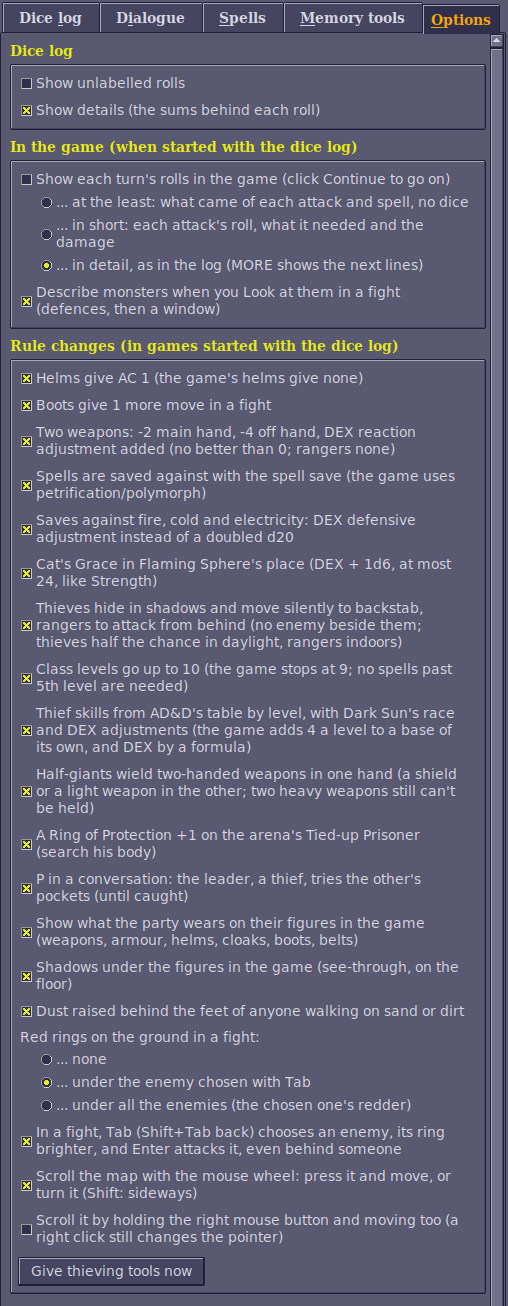
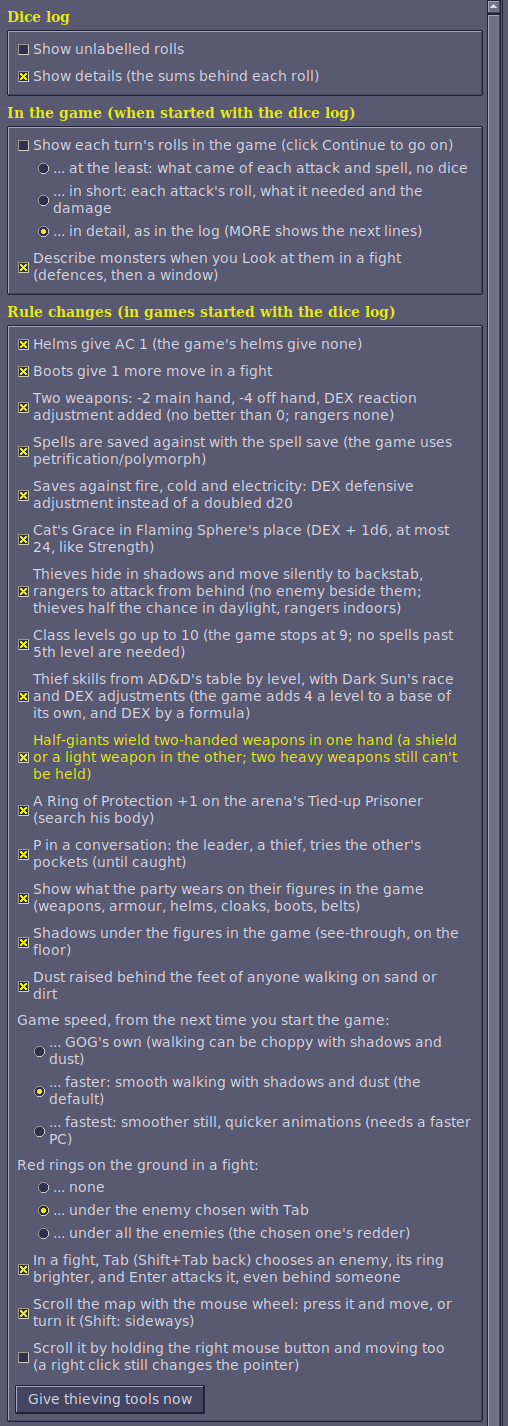
Game speed setting; the Trustee knows Semyon got away
Walking was slower and choppy with shadows, dust and rings on: the game
moves a walker a step each time it draws the view, and they're drawn with
it. Measured in the slave pens, four walking at GOG's 12,000 cycles: a
step every 56 ms with everything on, 32 ms with shadows off; at 20,000
cycles with everything on, 32 ms; at 30,000, 24 ms (gear: no difference).
The launcher now gives DOSBox 20,000 cycles by default; the Options tab
offers GOG's own and 30,000 too.

A Semyon who broke out with the party and lived sets the game's flag 29
when the pens are cleared after the escape, so the Trustee says he got
away (the game's own line) instead of "Every single one".

Claude-Session: https://claude.ai/code/session_01BNiWkhyZSJPYsN3zRrweVp

Changed region(s): [[0.0, 0.0, 1.0, 1.0], [0.8563, 0.6432, 0.8858, 0.6738]]

diff --git a/darksun-companion/dscompanion/viewer.py b/darksun-companion/dscompanion/viewer.py
@@ -353,6 +353,16 @@ class Viewer:
         self.show_dust = tk.BooleanVar(value=bool(settings.get("dust", True)))
         ttk.Checkbutton(rules, text="Dust raised behind the feet of anyone walking on sand or dirt",
                         variable=self.show_dust, command=self._popups_changed).pack(anchor="w", pady=(4, 0))
+        speed = settings.get("cycles", launch.DEFAULT_SPEED)
+        self.game_speed = tk.StringVar(value=str(speed if speed in launch.SPEEDS or speed == launch.GOG_SPEED
+                                                 else launch.DEFAULT_SPEED))
+        ttk.Label(rules, text="Game speed, from the next time you start the game:").pack(
+            anchor="w", pady=(4, 0))
+        for value, text in ((launch.GOG_SPEED, "... GOG's own (walking can be choppy with shadows and dust)"),
+                            ("20000", "... faster: smooth walking with shadows and dust (the default)"),
+                            ("30000", "... fastest: smoother still, quicker animations (needs a faster PC)")):
+            ttk.Radiobutton(rules, text=text, value=value, variable=self.game_speed,
+                            command=self._speed_chosen).pack(anchor="w", padx=(16, 0))
         self.ring_mode = tk.StringVar(value=rings.mode(settings))
         ttk.Label(rules, text="Red rings on the ground in a fight:").pack(anchor="w", pady=(4, 0))
         for value, text in ((rings.OFF, "... none"),
@@ -749,6 +759,14 @@ class Viewer:
         launch.save_settings(settings)
         self.status.set(f"Game window: {self.window_choice.get()}, from the next time you start the game "
                         "(Alt+Enter switches full screen while playing).")
+
+    def _speed_chosen(self) -> None:
+        """Remember the game's speed; it applies the next time the game is started."""
+        value = self.game_speed.get()
+        settings = launch.load_settings()
+        settings["cycles"] = value if value == launch.GOG_SPEED else int(value)
+        launch.save_settings(settings)
+        self.status.set("Game speed: from the next time you start the game.")
 
     def _popups_changed(self) -> None:
         on = self.popups.get()

diff --git a/darksun-companion/dscompanion/semyon.py b/darksun-companion/dscompanion/semyon.py
@@ -56,8 +56,10 @@ SETTLED = 779
 # and his henchman along to the slave pens (5Eh to region 41, at 76, 68), but nothing of Semyon's.
 # If he is recruited (the game's flag 6) and still in the arena, alive and not against the party,
 # he goes along too, beside them, on the party's side (ESCAPING): in the pens he talks as one
-# breaking out, and isn't made one of the slaves. After the escape he is gone with everyone else.
+# breaking out, and isn't made one of the slaves. After the escape he is gone with everyone else,
+# and, if he lived, the Trustee says he got away (GOT_AWAY).
 RECRUITED = 6
+GOT_AWAY = 29  # the game's flag: Semyon escaped on his own ("I'll wait here and guard the exit"), script 5
 ESCAPING = 782
 ESCAPE_SCRIPT, ESCAPE_AT = 3, 1828  # the henchman's move to the pens in it (Scar's is just before)
 HENCHMAN = 229
@@ -92,6 +94,9 @@ def placement(base: int) -> bytes:
         s.when(("expr", _flag(kalzith.STOCKED) + ["and"] + _flag(kalzith.DIED, 0)),
                lambda: s.op(REMOVE, ("n", -kalzith.OBJECT), *(("n", v) for v in GONE_AT))),
         s.when(here, lambda: s.op(REMOVE, ("n", -SEMYON), *(("n", v) for v in GONE_AT))),
+        # (broke out with the party and lived: the game's own word for a Semyon who escaped, so
+        # the Trustee says he got away, "snuck out through the benches", instead of "every one")
+        s.when(("expr", _flag(ESCAPING) + ["and"] + _flag(DIED, 0)), lambda: s.flag(GOT_AWAY, 1)),
         s.flag(CLEARED, 1)))
     s.op(kalzith.TALK, ("n", START), ("n", SCRIPT), ("n", -SEMYON))
     return s.bytes(base=base, end=False)

diff --git a/darksun-companion/dscompanion/launch.py b/darksun-companion/dscompanion/launch.py
@@ -153,9 +153,27 @@ def display_lines(settings: dict) -> List[str]:
             "scaler=" + ("none" if scale == 1 else SCALERS[scale]), ""]
 
 
+# The game's speed: DOSBox's emulated CPU (fixed cycles: instructions a millisecond). The game
+# moves a walking figure a step each time it draws the view, so drawing the Ledger's shadows, dust
+# and rings too makes each step take longer: at GOG's speed walking turns choppy. 20000 walks as
+# smoothly with them as GOG's 12000 without; 30000 smoother still (and quicker animations).
+GOG_SPEED, SPEEDS, DEFAULT_SPEED = "gog", (20000, 30000), 20000
+
+
+def cpu_lines(settings: dict) -> List[str]:
+    """DOSBox's CPU speed, over GOG's settings: `cycles` 20000 (the default) or 30000; "gog"
+    keeps GOG's own."""
+    speed = settings.get("cycles", DEFAULT_SPEED)
+    if speed == GOG_SPEED:
+        return []
+    speed = speed if speed in SPEEDS else DEFAULT_SPEED
+    return ["[cpu]", f"cycles=fixed {speed}", ""]
+
+
 def write_conf(game_dir: str, path: str = CONF, dice_log: bool = True) -> str:
     """Our replacement for dosbox_darksun_single.conf. Without the dice log it just runs the game."""
-    lines = display_lines(load_settings())
+    settings = load_settings()
+    lines = display_lines(settings) + cpu_lines(settings)
     lines += ["[autoexec]", "@echo off", "cls", 'mount c ".."']
     if os.path.isdir(os.path.join(game_dir, "cloud_saves")):
         lines.append(r'mount C "..\cloud_saves" -t overlay')  # where GOG keeps the saves

diff --git a/darksun-companion/tests/test_launch.py b/darksun-companion/tests/test_launch.py
@@ -48,6 +48,14 @@ class LaunchTests(unittest.TestCase):
         self.assertIn("C0000005h", launch.closed_line(-1073741819))  # (the same, as a signed int)
         self.assertEqual(launch.closed_line(3), "DOSBox closed with exit code 3.")
 
+    def test_game_speed(self):
+        """20000 cycles unless asked otherwise (smooth walking with shadows and dust); GOG's own
+        when asked; nothing else taken."""
+        self.assertEqual(launch.cpu_lines({}), ["[cpu]", "cycles=fixed 20000", ""])
+        self.assertEqual(launch.cpu_lines({"cycles": 30000}), ["[cpu]", "cycles=fixed 30000", ""])
+        self.assertEqual(launch.cpu_lines({"cycles": "gog"}), [])
+        self.assertEqual(launch.cpu_lines({"cycles": 99999}), ["[cpu]", "cycles=fixed 20000", ""])
+
     def test_a_window_three_times_the_game_unless_asked_otherwise(self):
         self.assertEqual(launch.display_lines({}),
                          ["[sdl]", "fullscreen=false", "[render]", "aspect=true", "scaler=normal3x", ""])

diff --git a/darksun-companion/tests/test_semyon.py b/darksun-companion/tests/test_semyon.py
@@ -182,6 +182,11 @@ class SemyonTests(unittest.TestCase):
         sets = [(o.args[1][2], o.args[0][1]) for o in ops if o.code == 0x16]
         self.assertIn((semyon.CLEARED, 1), sets)
         self.assertTrue(_ifs_closed(ops))
+        # (broke out with the party and lived: the game's flag for a Semyon who got away)
+        got_away = next(i for i, o in enumerate(ops) if o.code == 0x16 and o.args[1] == ("var", 13, semyon.GOT_AWAY))
+        test = max((o for o in ops[:got_away] if o.code == 0x18), key=lambda o: o.at).args[0][1]
+        self.assertEqual(test, ["(", ("var", 0x8D, semyon.ESCAPING), "==", ("n", 1), ")", "and",
+                                "(", ("var", 0x8D, semyon.DIED), "==", ("n", 0), ")"])
 
     def test_settled(self):
         """In his pen, once (SETTLED), before the escape: as the pens' slaves are, on their side

diff --git a/darksun-companion/README.md b/darksun-companion/README.md
@@ -1172,6 +1172,22 @@ DSCLOG draw the view again when it changes (from the game's main loop, as
 centring the view does: marking the figures changed instead, as the game's own
 code does to draw one again, can set one in a fight walking again).
 
+### Game speed
+
+The game moves a walking figure one step each time it draws the view, so
+anything drawn with it (the shadows above all, the dust and the rings less)
+makes each step take longer: at GOG's speed for DOSBox, walking turns slower and
+choppy with them on. The launcher gives DOSBox more of the computer's time
+(20,000 cycles a millisecond), at which walking is as smooth with them as the
+game's own without them. On the Options tab **Game speed** is GOG's own, that
+(the default) or 30,000 (smoother still; animations run quicker, and it needs a
+faster computer). It applies the next time the game is started.
+
+Measured in the slave pens, four of the party walking, at 12,000 cycles:
+a step every 56 ms with everything on, 32 ms with the shadows off or
+everything off; at 20,000 cycles with everything on, 32 ms; at 30,000, 24 ms.
+What the party wears on their figures costs nothing measurable.
+
 ### Dust
 
 Anyone walking on sand or dirt raises little puffs of dust behind their feet,

diff --git a/README.md b/README.md
@@ -104,6 +104,14 @@ Release **1.0.0** is pull requests #1 to #13. Its notes are in
   with Scar's men, fights the guards on the party's side, and has a line of his
   own for the breakout. In the game he was left behind in the arena.
 
+- **Game speed on the Options tab:** the launcher gives DOSBox 20,000 cycles
+  by default, at which walking with shadows, dust and rings on is as smooth as
+  the game without them (at GOG's speed it was slower and choppy); GOG's own
+  speed and 30,000 can be chosen.
+- **The Trustee knows Semyon got away:** if Semyon broke out with the party and
+  lived, the Trustee says so after the escape (the game's own line for a Semyon
+  who escaped), instead of "Every single one" for all the pens.
+
 **Fixed** (from a review of the code)
 - **Clicks after Tab + Enter:** for a few seconds after Enter, anything the
   next character clicked could still count as the enemy chosen before. The
